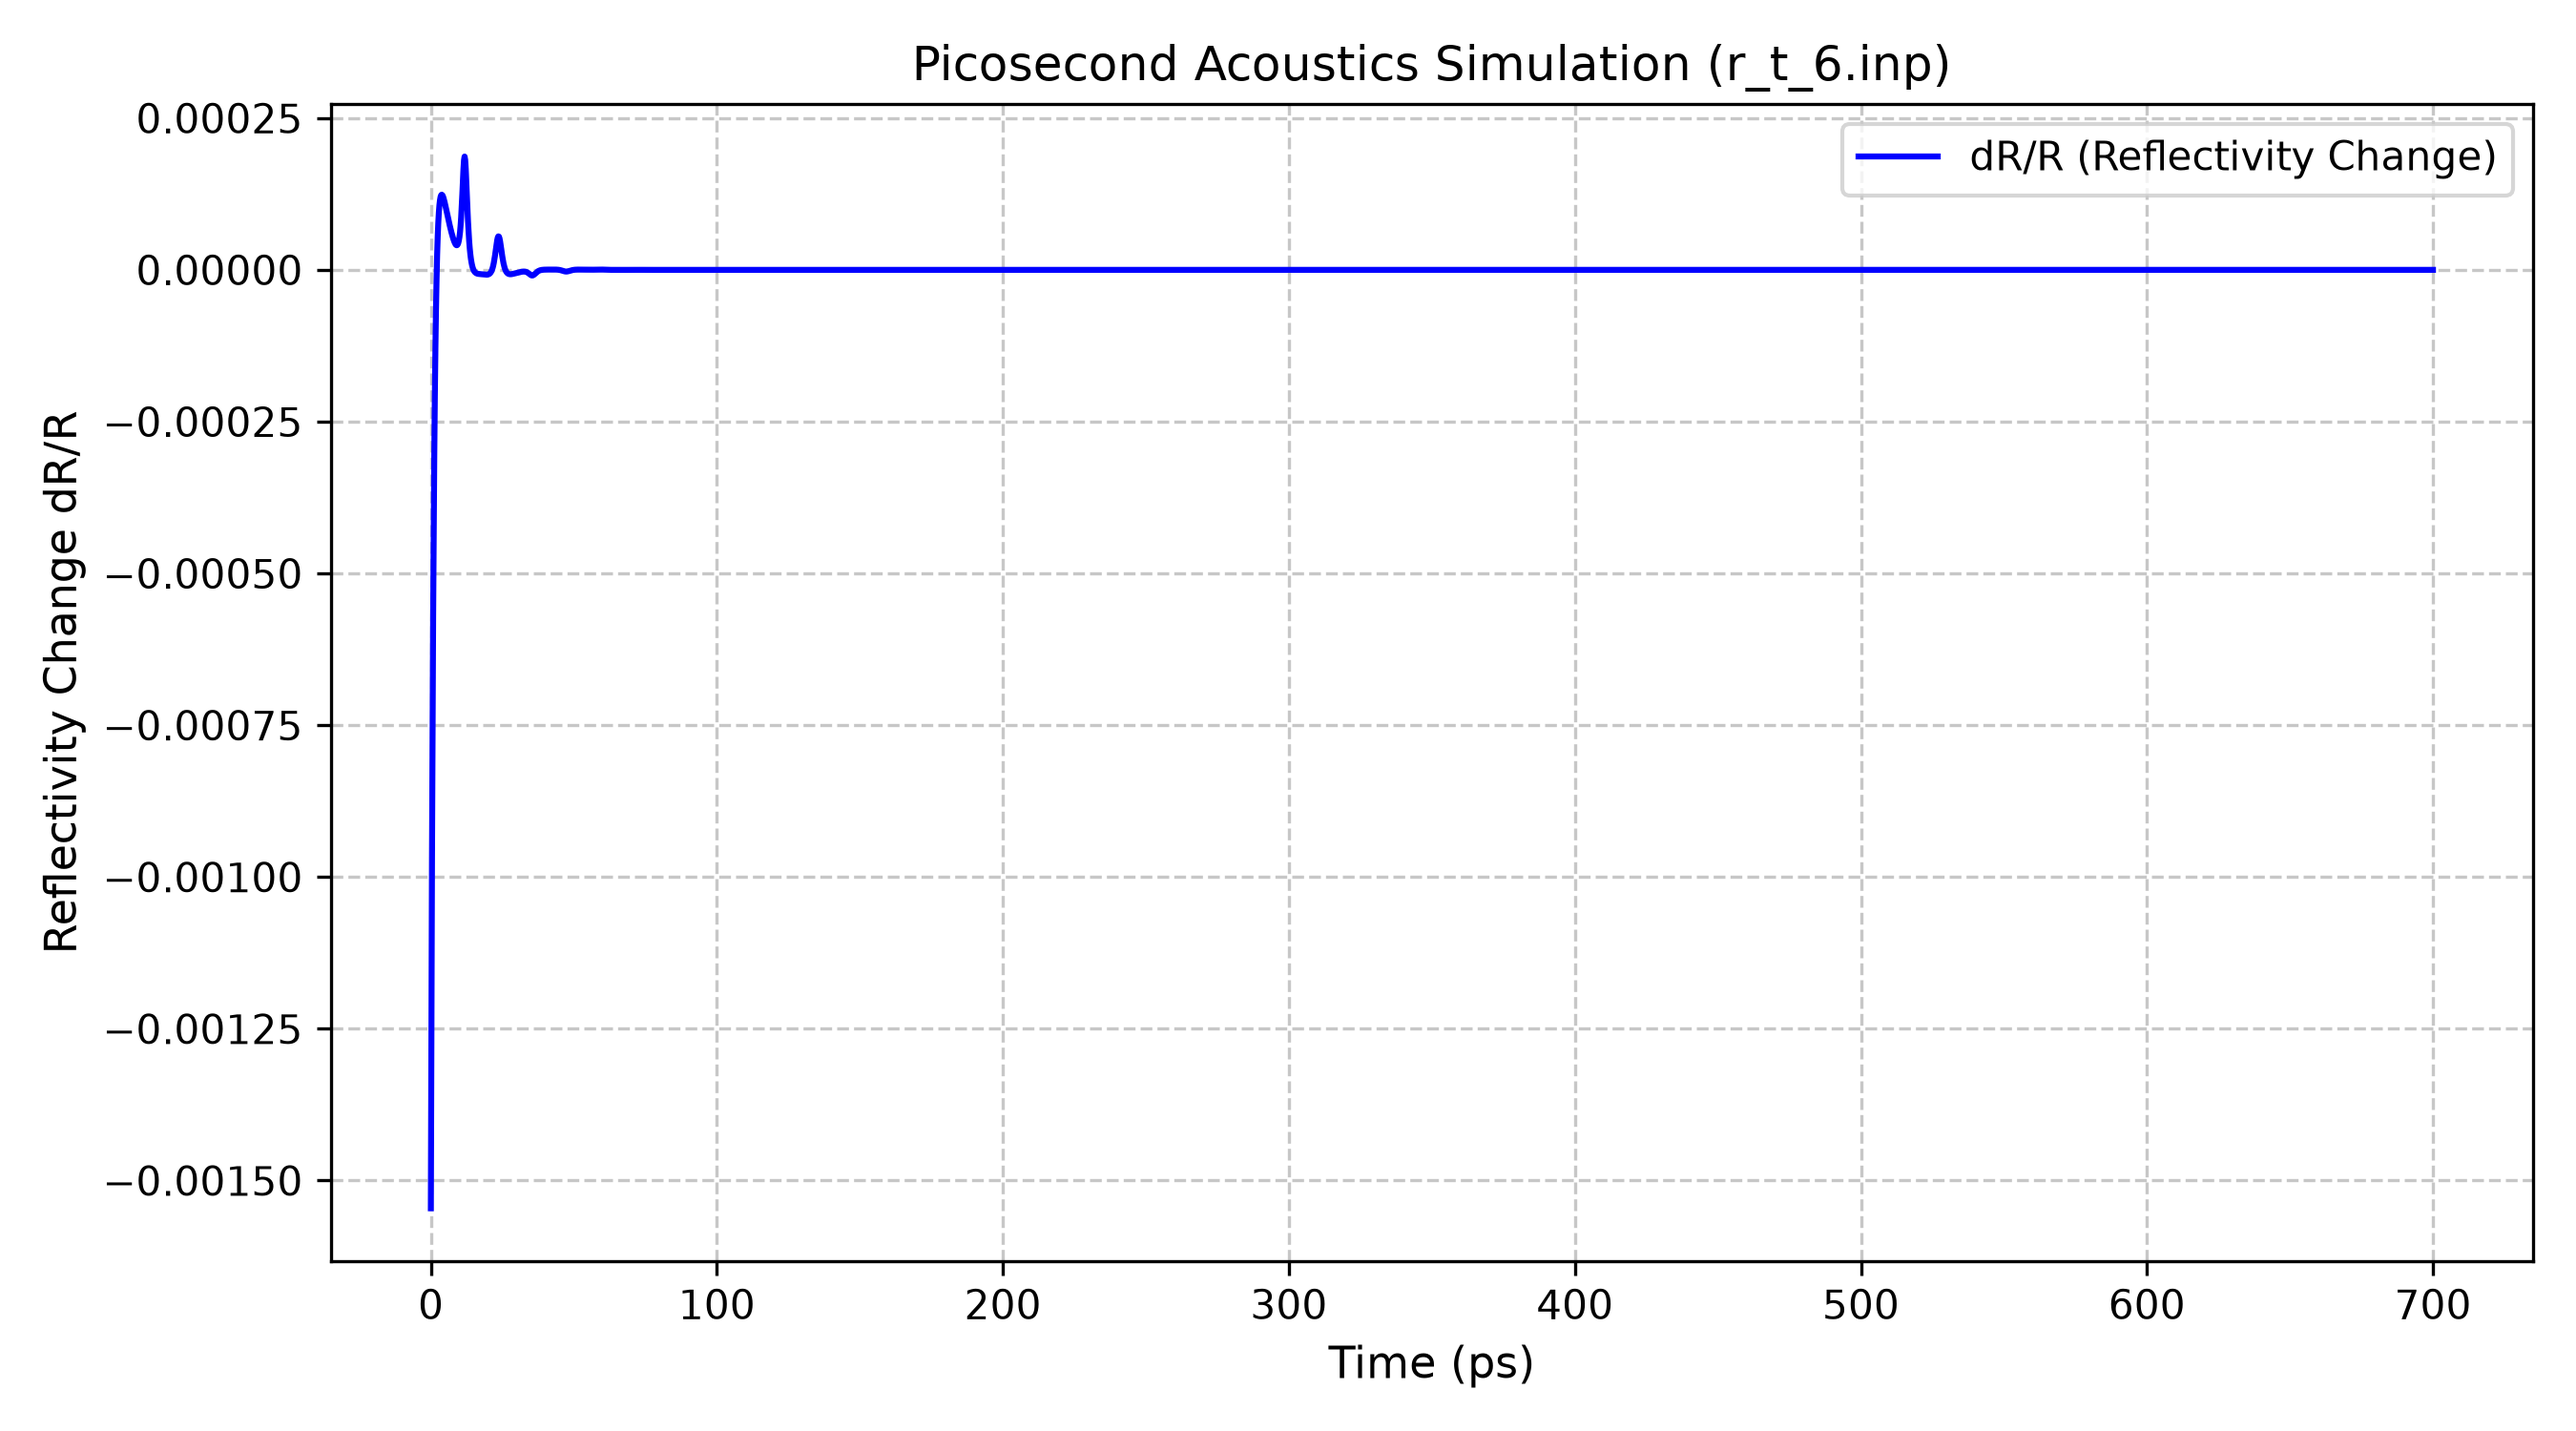
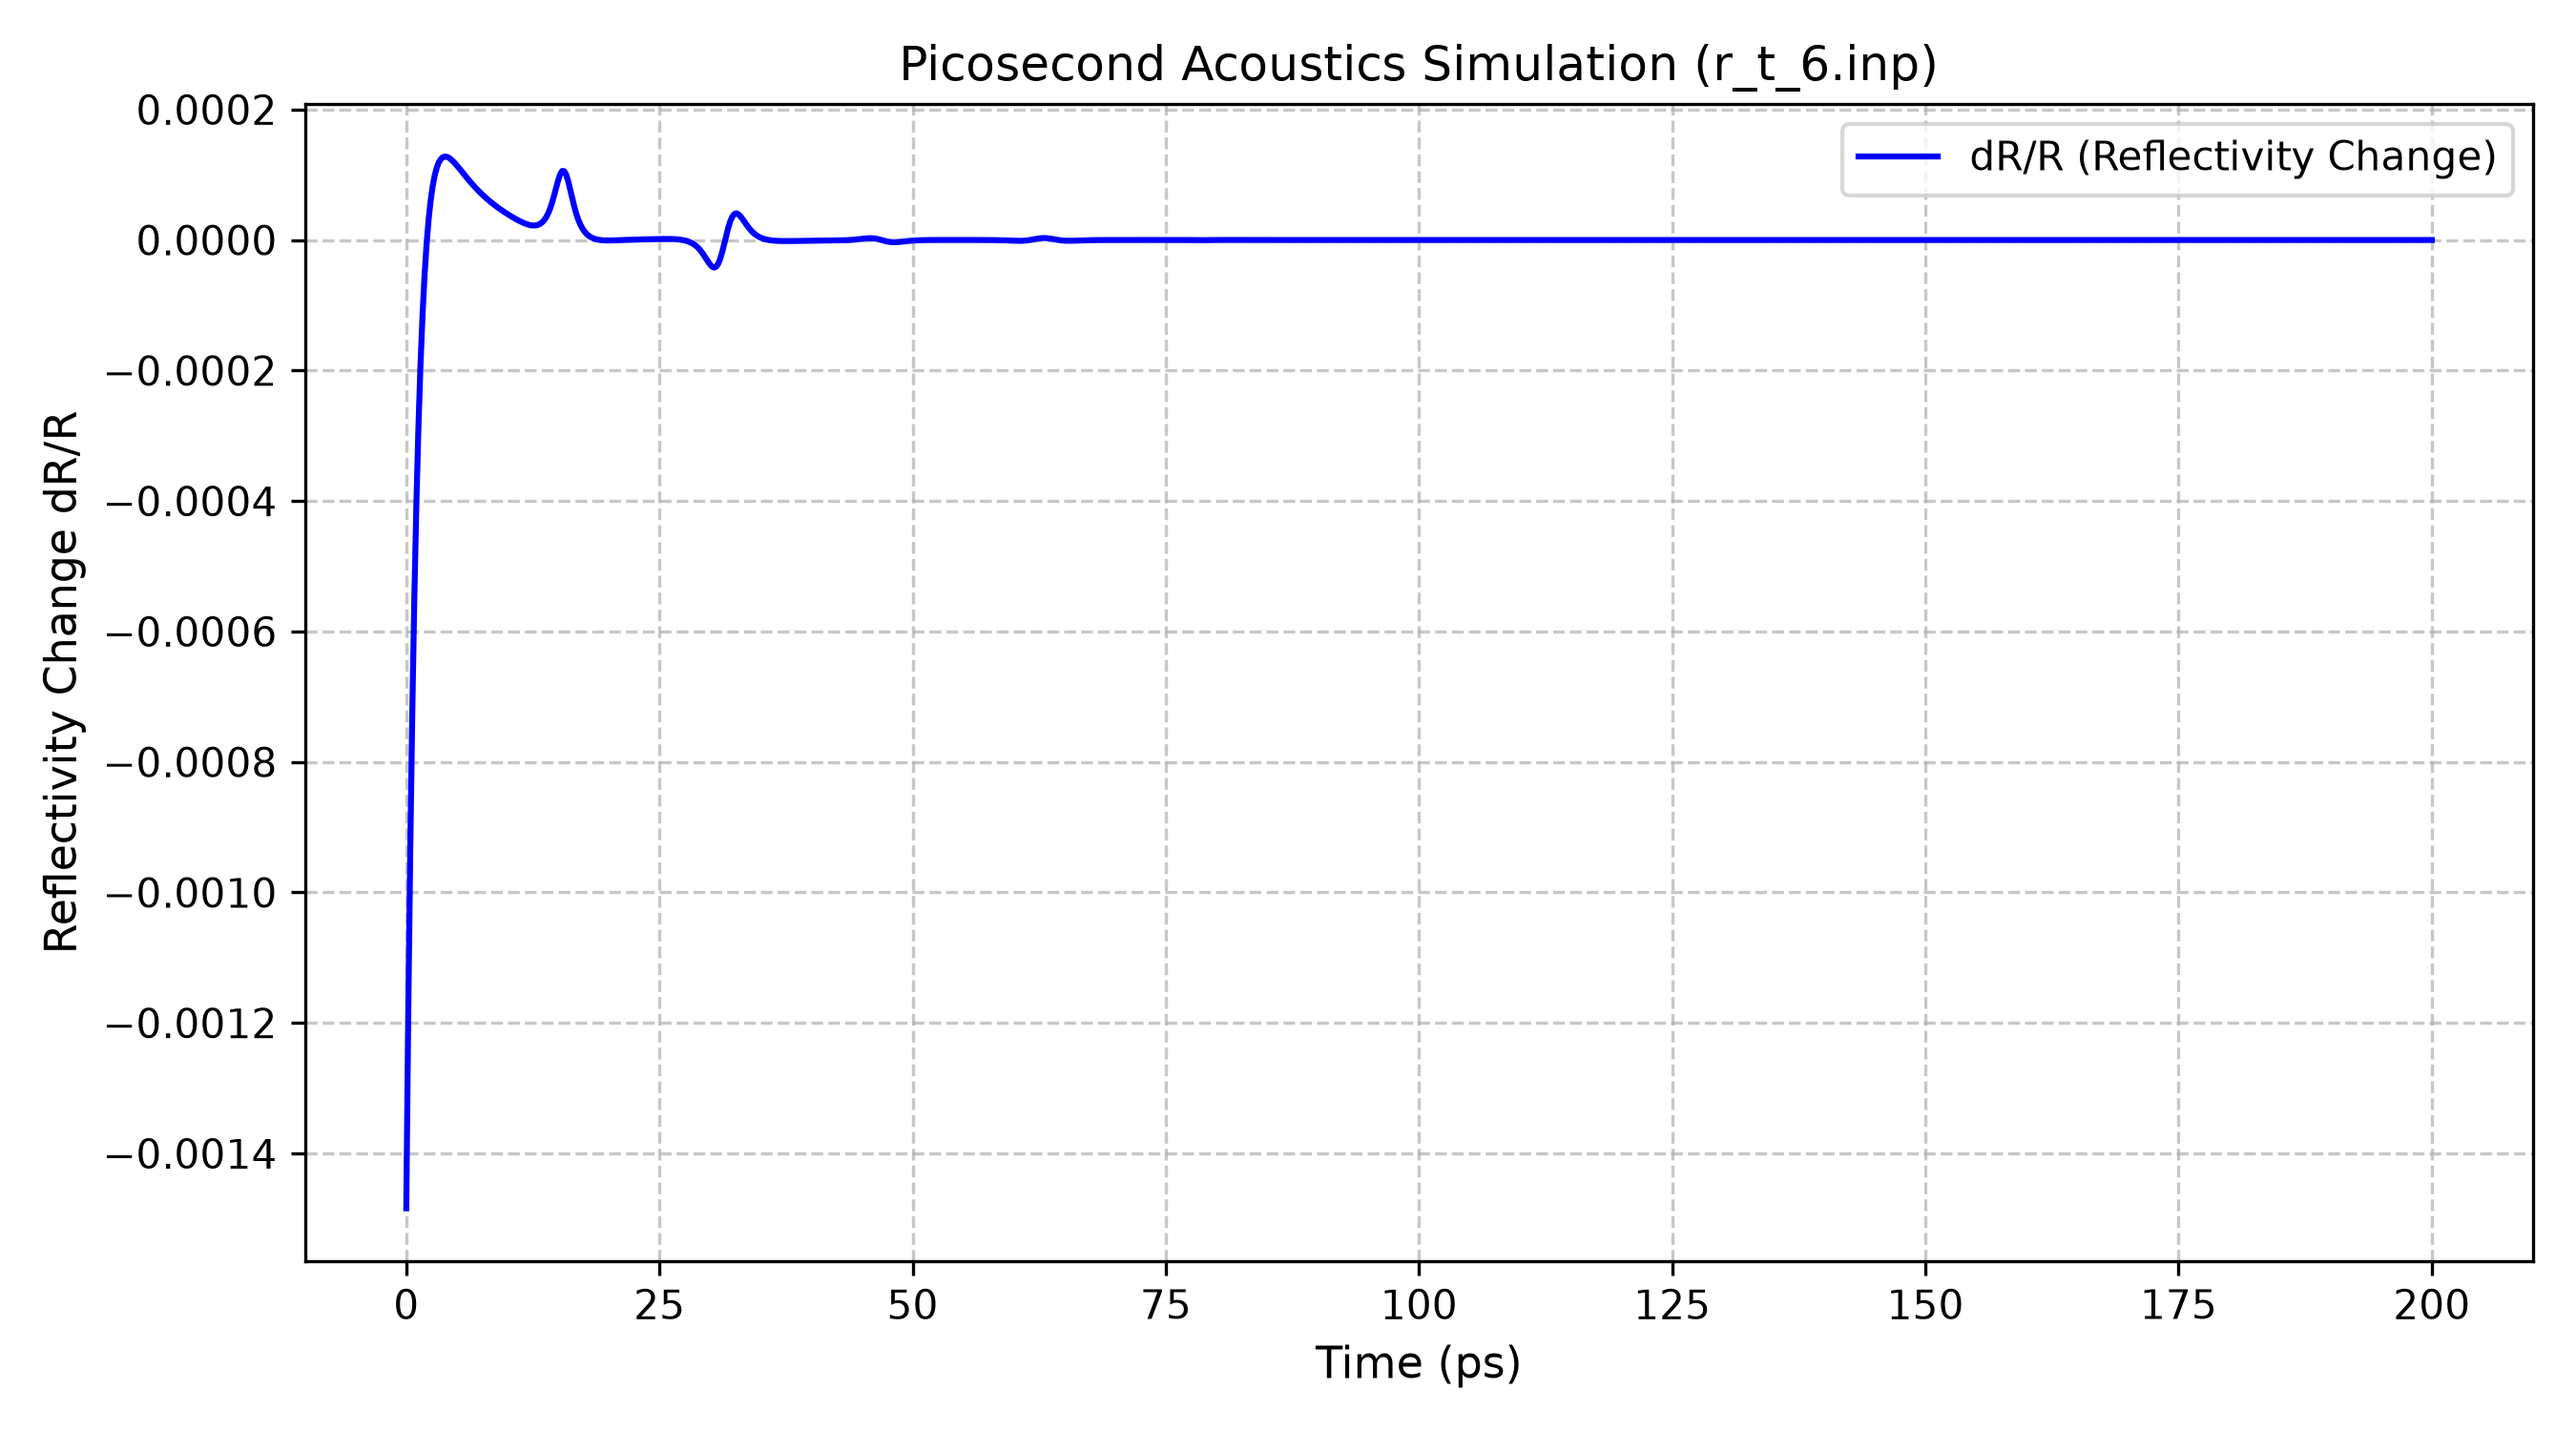
fixed  bugs in how the r_t_6.inp file is read. and defaults when nothing is entered on the command line.

diff --git a/run_simulation.py b/run_simulation.py
@@ -2,7 +2,7 @@
 """
 CLI entry point to run picosecond acoustics simulations.
 Usage:
-    python run_simulation.py [path_to_inp_file] [--plot] [--output output.dat] [--save-plot plot.png]
+    python run_simulation.py [path_to_inp_file] [--output output.dat] [--save-plot plot.png] [--no-plot] [--no-save-plot]
 """
 
 import sys
@@ -12,18 +12,12 @@ from pathlib import Path
 
 from picosecond_acoustics import (
     load_simulation_from_legacy_inp,
-    PicosecondAcousticsSimulation,
-    Structure,
-    FilmLayer,
-    Material,
-    LightBeam,
-    SimulationConfig,
     SimulationResult
 )
 
 
-def display_plot(result: SimulationResult, title: str = "Picosecond Acoustics Simulation", save_path: str = None) -> None:
-    """Display interactive plot of reflectivity change vs time."""
+def display_plot(result: SimulationResult, title: str = "Picosecond Acoustics Simulation", save_path: str = None, show: bool = True) -> None:
+    """Display and/or save plot of reflectivity change vs time."""
     try:
         import matplotlib.pyplot as plt
         plt.figure(figsize=(9, 5))
@@ -39,80 +33,55 @@ def display_plot(result: SimulationResult, title: str = "Picosecond Acoustics Si
             plt.savefig(save_path, dpi=300)
             print(f"Plot saved to: {save_path}")
 
-        try:
-            plt.show()
-        except Exception:
-            pass
+        if show:
+            try:
+                plt.show()
+            except Exception:
+                pass
+        plt.close()
     except ImportError:
         print("Warning: matplotlib is not installed. Unable to display or save plot.")
     except Exception as e:
         print(f"Display error: {e}")
 
 
-def run_demo_custom_structure() -> SimulationResult:
-    """Run a sample simulation defined purely in Python code."""
-    print("--- Running Demo Custom Structure Simulation ---")
-    al = Material.from_inp_file("Al.inp")
-    si = Material.from_inp_file("Si.inp")
-
-    structure = Structure()
-    structure.add_layer(FilmLayer(material=al, thickness_mean=760.0, roughness=0.0))
-    structure.add_layer(FilmLayer(material=si, thickness_mean=7000.0, roughness=0.0))
-
-    pump = LightBeam(wavelength=7850.0, angle_deg=0.0, polarization='s')
-    probe = LightBeam(wavelength=7850.0, angle_deg=0.0, polarization='p')
-    config = SimulationConfig(tau_data=0.2, n_tau_divide=1, t_stop=700.0, t_save=100.0, n_samples=1)
-
-    sim = PicosecondAcousticsSimulation(
-        structure=structure,
-        pump_beam=pump,
-        probe_beam=probe,
-        sim_config=config
-    )
-
-    t0 = time.time()
-    result = sim.run()
-    t1 = time.time()
-
-    print(f"Simulation completed in {t1 - t0:.4f} seconds!")
-    print(f"Time steps calculated: {len(result.time_ps)}")
-    print(f"Pump Reflection Magnitude R_pump: {result.r_pump_magnitude:.6e}")
-    print(f"Probe Reflection Magnitude R_probe: {result.r_probe_magnitude:.6e}")
-
-    return result
-
-
 def main():
     parser = argparse.ArgumentParser(description="Picosecond Acoustics Simulator")
-    parser.add_argument("inp_file", nargs="?", default="r_t_6.inp", help="Path to legacy .inp file")
-    parser.add_argument("--output", "-o", default="r_t_py.dat", help="Path to save output data")
-    parser.add_argument("--plot", "-p", action="store_true", help="Display plot of simulation reflectivity change before exiting")
-    parser.add_argument("--save-plot", default=None, help="Optional image filepath to save plot (e.g. plot.png)")
+    parser.add_argument("inp_file", nargs="?", default="r_t_6.inp", help="Path to legacy .inp file (default: r_t_6.inp)")
+    parser.add_argument("--output", "-o", default="r_t_py.dat", help="Path to save output data (default: r_t_py.dat)")
+    parser.add_argument("--save-plot", default="simulation_result.png", help="Path to save plot image (default: simulation_result.png)")
+    parser.add_argument("--no-save-plot", action="store_true", help="Do not save plot image to file")
+    parser.add_argument("--no-plot", action="store_true", help="Do not display interactive plot window")
+    parser.add_argument("--plot", "-p", dest="show_plot", action="store_true", default=True, help="Display plot of reflectivity change (default: True)")
 
     args = parser.parse_args()
 
     inp_path = Path(args.inp_file)
-    if inp_path.exists():
-        print(f"Loading simulation from: {inp_path}")
-        sim = load_simulation_from_legacy_inp(inp_path)
-        
-        t0 = time.time()
-        result = sim.run()
-        t1 = time.time()
+    if not inp_path.exists() and not inp_path.is_absolute():
+        script_dir_path = Path(__file__).resolve().parent / args.inp_file
+        if script_dir_path.exists():
+            inp_path = script_dir_path
 
-        print(f"Simulation finished in {t1 - t0:.4f} seconds.")
-        print(f"Saving output data to: {args.output}")
-        result.save_txt(args.output)
+    if not inp_path.exists():
+        print(f"Error: Input file '{args.inp_file}' not found.", file=sys.stderr)
+        sys.exit(1)
 
-        if args.plot or args.save_plot:
-            display_plot(result, title=f"Picosecond Acoustics Simulation ({inp_path.name})", save_path=args.save_plot)
-    else:
-        print(f"Input file '{inp_path}' not found. Running custom python demo...")
-        result = run_demo_custom_structure()
-        result.save_txt(args.output)
+    print(f"Loading simulation from: {inp_path}")
+    sim = load_simulation_from_legacy_inp(inp_path)
+    
+    t0 = time.time()
+    result = sim.run()
+    t1 = time.time()
 
-        if args.plot or args.save_plot:
-            display_plot(result, title="Picosecond Acoustics Simulation (Demo Structure)", save_path=args.save_plot)
+    print(f"Simulation finished in {t1 - t0:.4f} seconds.")
+    print(f"Saving output data to: {args.output}")
+    result.save_txt(args.output)
+
+    save_path = None if args.no_save_plot else args.save_plot
+    show = False if args.no_plot else args.show_plot
+
+    if show or save_path:
+        display_plot(result, title=f"Picosecond Acoustics Simulation ({inp_path.name})", save_path=save_path, show=show)
 
 
 if __name__ == "__main__":

diff --git a/picosecond_acoustics/io_legacy.py b/picosecond_acoustics/io_legacy.py
@@ -55,22 +55,39 @@ def load_simulation_from_legacy_inp(
         polarization=int(probe_vals[2])
     )
 
-    num_films = int(re.findall(r"[-+]?(?:\d*\.\d+|\d+)(?:[eE][-+]?\d+)?", lines[6])[0])
+    num_films_spec = int(re.findall(r"[-+]?(?:\d*\.\d+|\d+)(?:[eE][-+]?\d+)?", lines[6])[0])
     n_samples = int(re.findall(r"[-+]?(?:\d*\.\d+|\d+)(?:[eE][-+]?\d+)?", lines[7])[0])
 
-    structure = Structure()
-    for line_idx in range(8, 8 + num_films):
-        line = lines[line_idx]
+    # Parse film lines starting at line index 8
+    film_lines = lines[8:]
+    parsed_film_entries = []
+    for line in film_lines:
         nums, mat_filename = parse_numbers_and_text(line)
-        thickness = nums[0]
-        roughness = nums[1] if len(nums) > 1 else 0.0
-
         if not mat_filename:
-            # Fallback search for .inp filename in line text
             for token in line.split():
                 if token.lower().endswith(".inp"):
                     mat_filename = token
                     break
+        if nums and mat_filename:
+            parsed_film_entries.append((nums, mat_filename))
+
+    # Fallback to range(8, 8 + num_films_spec) if no pattern matched
+    if not parsed_film_entries:
+        for line_idx in range(8, min(len(lines), 8 + num_films_spec)):
+            line = lines[line_idx]
+            nums, mat_filename = parse_numbers_and_text(line)
+            if not mat_filename:
+                for token in line.split():
+                    if token.lower().endswith(".inp"):
+                        mat_filename = token
+                        break
+            if nums:
+                parsed_film_entries.append((nums, mat_filename))
+
+    structure = Structure()
+    for nums, mat_filename in parsed_film_entries:
+        thickness = nums[0]
+        roughness = nums[1] if len(nums) > 1 else 0.0
 
         mat_path = base_dir / mat_filename
         if not mat_path.exists():

diff --git a/tests/test_simulation.py b/tests/test_simulation.py
@@ -55,8 +55,33 @@ class TestPicosecondAcoustics(unittest.TestCase):
     def test_legacy_inp_load(self):
         if Path("r_t_6.inp").exists():
             sim = load_simulation_from_legacy_inp("r_t_6.inp")
+            self.assertEqual(len(sim.structure.layers), 3)
             res = sim.run()
             self.assertGreater(len(res.time_ps), 0)
+
+    def test_multilayer_thickness_dependence(self):
+        al = Material.from_inp_file("Al.inp")
+        sio2 = Material.from_inp_file("SiO2.inp")
+
+        def run_with_sio2_thickness(thickness: float):
+            structure = Structure([
+                FilmLayer(al, 1000.0, 0.0),
+                FilmLayer(sio2, thickness, 0.0),
+                FilmLayer(al, 10000.0, 0.0)
+            ])
+            sim = PicosecondAcousticsSimulation(
+                structure=structure,
+                pump_beam=LightBeam(7850.0, 0.0, 1),
+                probe_beam=LightBeam(7850.0, 0.0, 2),
+                sim_config=SimulationConfig(0.2, 1, 150.0, 100.0, 1)
+            )
+            return sim.run()
+
+        res_500 = run_with_sio2_thickness(500.0)
+        res_1000 = run_with_sio2_thickness(1000.0)
+
+        # Reflectivity signals should not be identical because SiO2 thickness changed
+        self.assertFalse(np.allclose(res_500.reflectivity_change, res_1000.reflectivity_change))
 
 
 if __name__ == "__main__":

diff --git a/README.md b/README.md
@@ -37,18 +37,22 @@ pip install numpy matplotlib
 Run a simulation using an existing `.inp` file (e.g., [`r_t_6.inp`](r_t_6.inp:1)):
 
 ```bash
-# Display plot window before exiting:
-python run_simulation.py r_t_6.inp --plot
+# Run with defaults (loads r_t_6.inp, saves r_t_py.dat, saves simulation_result.png, and displays plot):
+python run_simulation.py
 
-# Save output data and plot image:
-python run_simulation.py r_t_6.inp --output r_t_py.dat --plot --save-plot plot.png
+# Custom input file and output file:
+python run_simulation.py r_t_6.inp --output r_t_py.dat --save-plot plot.png
+
+# Run headless without displaying plot window:
+python run_simulation.py r_t_6.inp --no-plot
 ```
 
 #### CLI Command Options for [`run_simulation.py`](run_simulation.py:1):
-- `inp_file`: Path to legacy input file (default: `r_t_6.inp`). If not found, runs custom Python demo simulation.
-- `--plot`, `-p`: Display interactive plot of reflectivity change ($dR/R$) vs time (ps) before exiting.
-- `--save-plot <filename>`: Save plot image to file (e.g. `simulation_plot.png`).
+- `inp_file`: Path to legacy input file (default: `r_t_6.inp`).
 - `--output <filename>`, `-o <filename>`: Path to save numerical simulation result data text file (default: `r_t_py.dat`).
+- `--save-plot <filename>`: Path to save plot image file (default: `simulation_result.png`).
+- `--no-save-plot`: Disable saving the plot image to file.
+- `--no-plot`: Disable displaying the interactive plot window.
 
 ---
 
